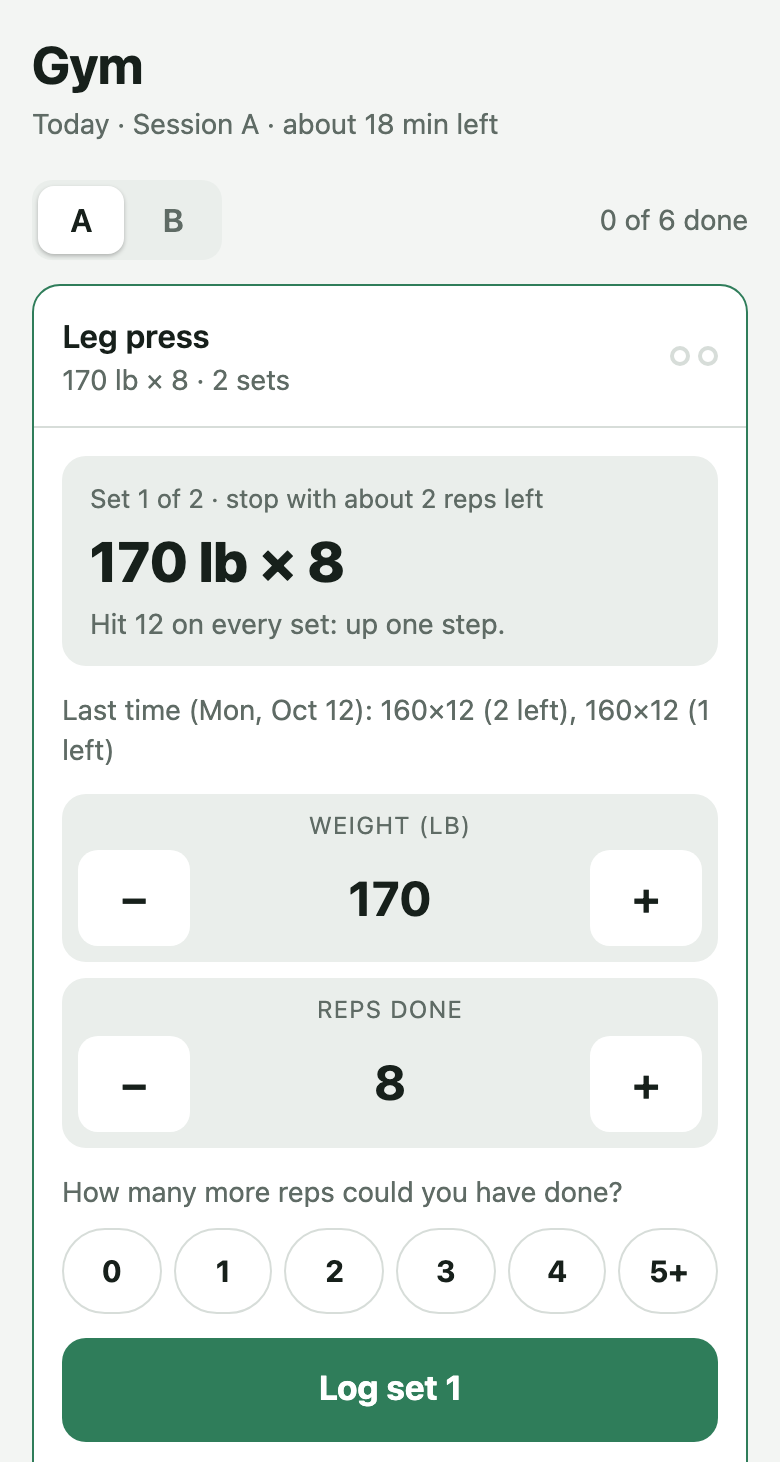
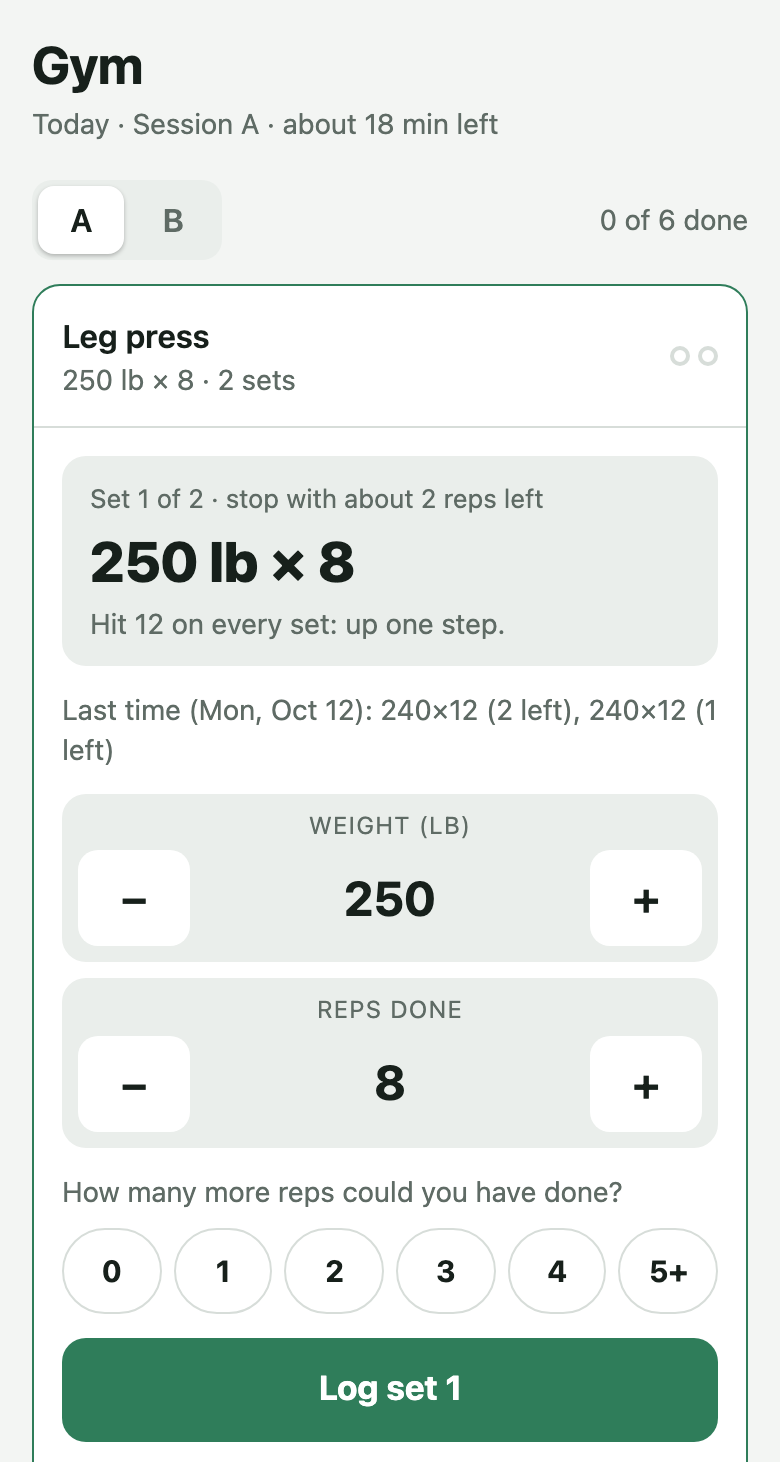
copy(site): raise the sample leg press to 250 lb in the fitness screenshot
Review: skipped, content only

diff --git a/projects/fitness-log.html b/projects/fitness-log.html
@@ -116,7 +116,7 @@
         </ul>
       </div>
       <figure style="margin:30px 0;">
-        <img src="/assets/fitness-log/gym-screen-sample.png" width="780" height="1462" alt="The gym screen on a phone: the next set's target of 170 pounds for 8 reps, the reason it went up, last session's sets, and controls to log weight, reps, and reps left in reserve." style="width:100%;max-width:340px;height:auto;display:block;border-radius:10px;border:2px solid var(--rule);" />
+        <img src="/assets/fitness-log/gym-screen-sample.png" width="780" height="1462" alt="The gym screen on a phone: the next set's target of 250 pounds for 8 reps, the reason it went up, last session's sets, and controls to log weight, reps, and reps left in reserve." style="width:100%;max-width:340px;height:auto;display:block;border-radius:10px;border:2px solid var(--rule);" />
         <figcaption class="mono" style="color:var(--muted);font-size:14px;margin-top:10px;">The gym screen, shown with sample data.</figcaption>
       </figure>
       <div class="inset">
